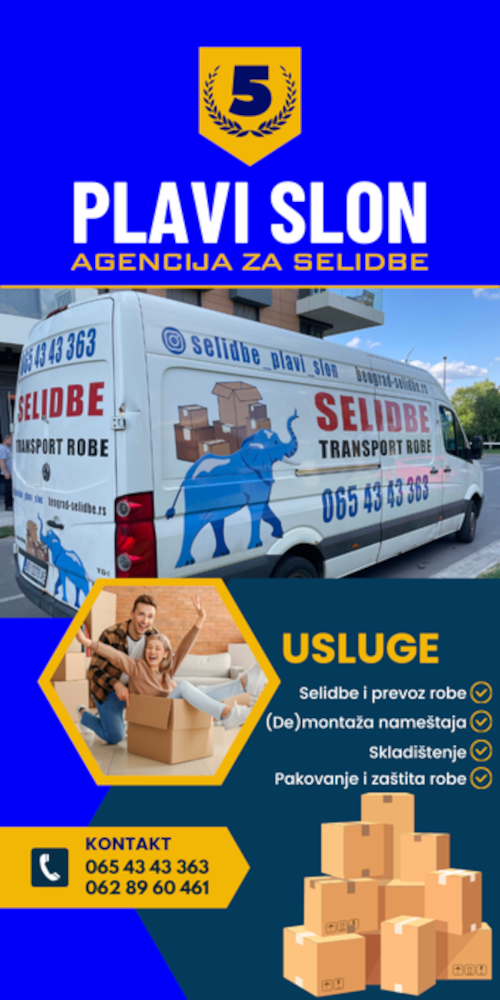
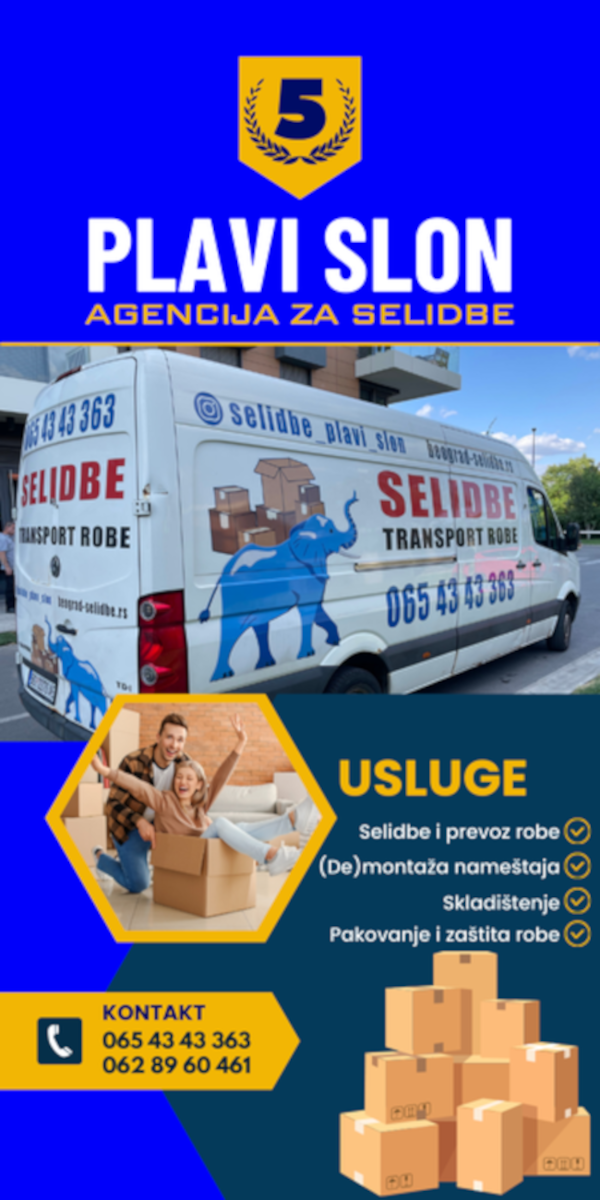
solved main img

diff --git a/JS/img.js b/JS/img.js
@@ -8,13 +8,13 @@ const mainImg = document.getElementById('main-img');
 function setMainImg () {
   if(window.innerWidth>=576 && window.innerWidth <= 750){
     mainImg.src='images/750x750-template.png'
-     mainImg.style.aspectRatio='1/.7'
+     mainImg.style.aspectRatio='1/.6'
   } else if(window.innerWidth>=751 && window.innerWidth <=1000){
     mainImg.src='images/mainTabletMiddle.webp'
      mainImg.style.aspectRatio='1/.6'
   } else if (window.innerWidth>=1001 && window.innerWidth<=1199) {
    mainImg.src='images/1200.jpg'
-     mainImg.style.aspectRatio='1/.5'
+     mainImg.style.aspectRatio='1/.6'
   } 
   else if(window.innerWidth<=575) {
       mainImg.src='images/imgMobile2.png'
